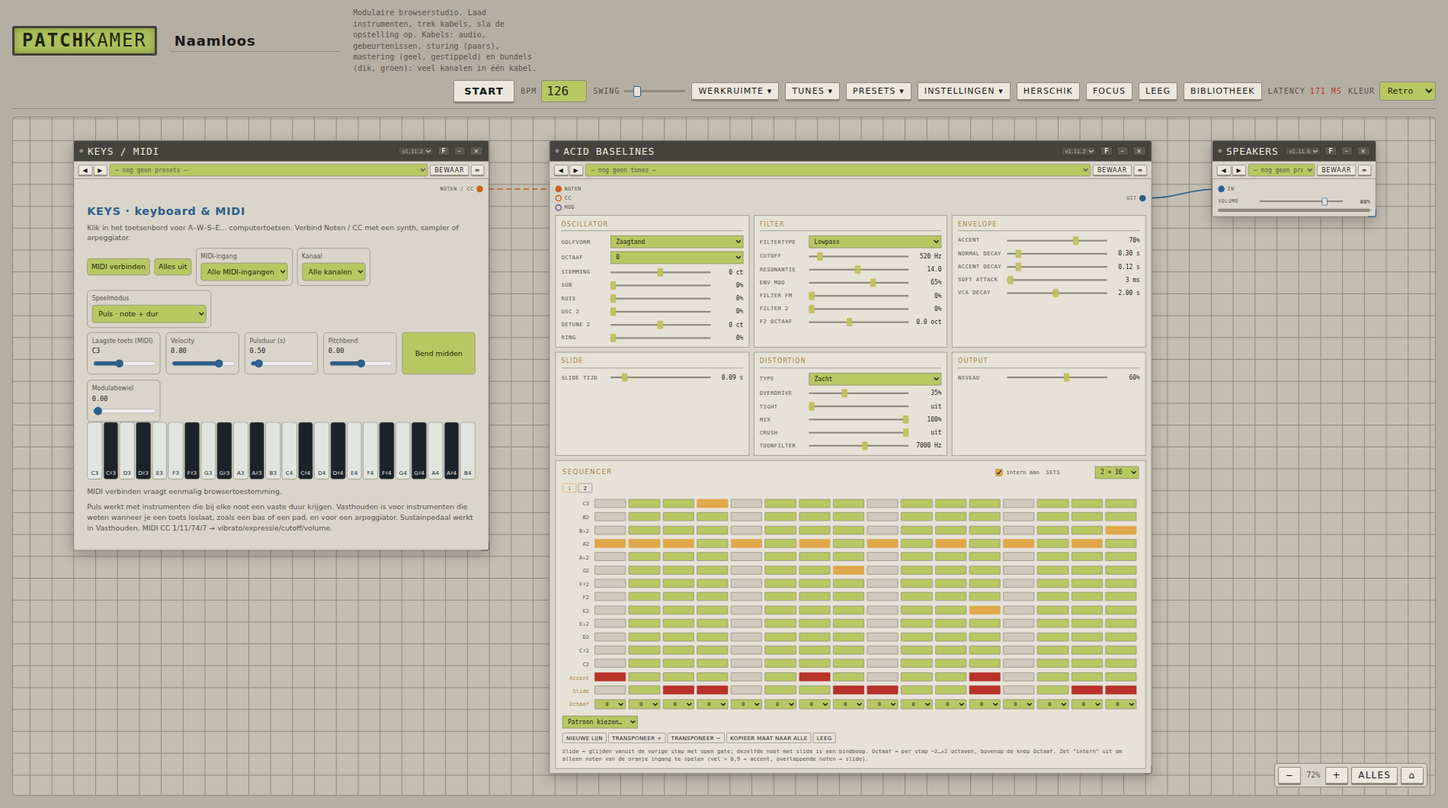
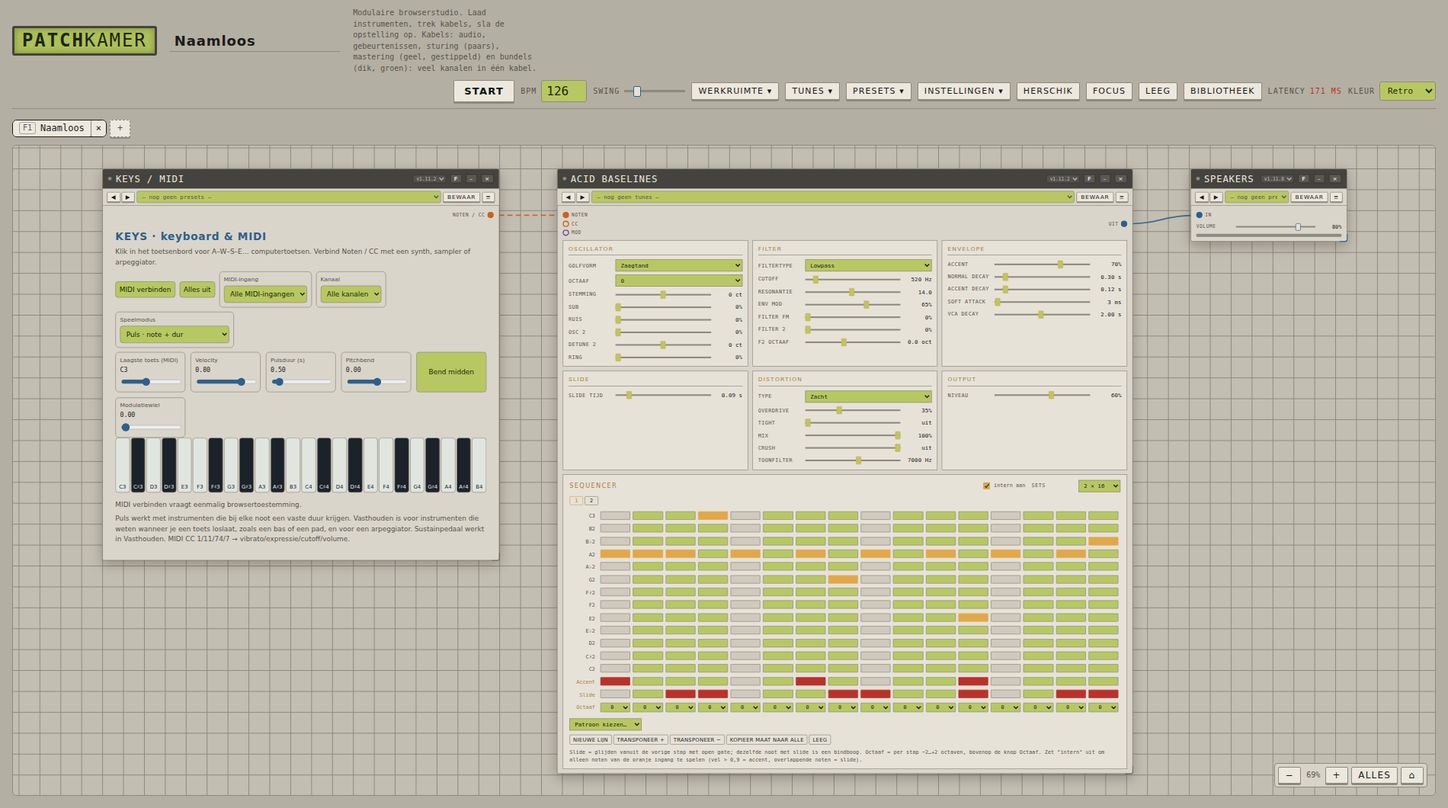
Host: meerdere werkruimtes met een tabbalk, F1 tot en met F10, toevoegen en sluiten; handleiding en schermafbeeldingen bijgewerkt

Changed region(s): [[0.0, 0.1245, 0.9937, 0.9651]]

diff --git a/patchkamer/patchkamer.html b/patchkamer/patchkamer.html
@@ -292,6 +292,15 @@ svg.cables g.cable.drop{opacity:1} svg.cables g.cable.drop path:not(.hit):not(.m
 .libwin{grid-template-columns:minmax(0,1fr)}
 .libwin .libbar{flex-wrap:wrap;row-gap:4px;min-width:0}
 .libwin .libbar .t{flex-shrink:0;overflow:visible}
+/* meerdere werkruimtes: tabbalk, F1 t/m F10 */
+.wstabs{display:flex;flex-wrap:wrap;gap:4px;align-items:center;padding:4px 0 0}
+.wstab{display:inline-flex;align-items:stretch;border:1px solid var(--line);background:var(--card);border-radius:6px;overflow:hidden;font-size:12px}
+.wstab.on{border-color:var(--sel);background:var(--card-2)}
+.wstab button{all:unset;cursor:pointer;color:var(--muted);padding:2px 8px;display:inline-flex;align-items:center;gap:6px;max-width:220px}
+.wstab.on button{color:var(--fg)} .wstab button:focus-visible{outline:2px solid var(--sel);outline-offset:-2px}
+.wstab .nm span{overflow:hidden;text-overflow:ellipsis;white-space:nowrap} .wstab kbd{font-family:var(--mono);font-size:10px;opacity:.7}
+.wstab .x{padding:2px 6px;border-left:1px solid var(--line)} .wstab .x:hover{color:var(--stop)}
+.wstabs .add{all:unset;cursor:pointer;color:var(--muted);border:1px dashed var(--line);border-radius:6px;padding:2px 9px;font-size:12px} .wstabs .add:hover{color:var(--fg)} .wstabs .add:focus-visible{outline:2px solid var(--sel)}
 .libwin .libbar .cnt{flex:1 1 auto;min-width:0;white-space:nowrap;overflow:hidden;text-overflow:ellipsis}
 .libwin .libbody{min-width:0}
 .libwin #lib,.libwin .cat,.libwin .devs{min-width:0}
@@ -488,6 +497,7 @@ body.nopbar .pbar{display:none}
     <div class="toast" id="devStatus" role="status" aria-live="polite"></div>
     <div class="floorempty" id="floorEmpty" hidden><div class="box">
       <h2 data-i18n="ui.lege_werkruimte">Lege werkruimte</h2>
+<nav class="wstabs" id="wsTabs" aria-label="Werkruimtes" data-i18n-aria="attr.werkruimtes_tabs"></nav>
       <p data-i18n-html="ui.patchkamer_heeft_zelf_geen_instrumenten">Patchkamer heeft zelf geen instrumenten. Laad een bibliotheek (een map met instrumenten, bijvoorbeeld <b data-i18n="ui.patchkamer_bibliotheek">patchkamer-bibliotheek</b>) of open een werkruimte die je eerder hebt bewaard.</p>
       <div class="wsrow"><button class="small" id="feLib" data-i18n="ui.bibliotheekmap_kiezen">Bibliotheekmap kiezen…</button><button class="small" id="feBundled" hidden data-i18n="ui.meegeleverde_bibliotheek_laden">Meegeleverde bibliotheek laden</button><button class="small" id="feOpen" data-i18n="ui.werkruimte_openen">Werkruimte openen…</button></div>
       <p id="feHint"></p>
@@ -804,6 +814,13 @@ const I18N={
    "attr.adres_tunes":"adres van de tunes",
    "m.alle_tunes_laden":"Alles laden",
    "m.alle_presets_laden":"Alles laden",
+   "attr.werkruimtes_tabs":"Werkruimtes",
+   "m.werkruimte_toevoegen":"Werkruimte toevoegen",
+   "m.werkruimte_sluiten":"Werkruimte sluiten",
+   "m.werkruimte_sluiten_vraag":"<b>{0} sluiten?</b><br>Wijzigingen die je niet als bestand hebt bewaard, verdwijnen.",
+   "m.sluiten_knop":"Sluiten",
+   "m.werkruimte_maximum":"Maximaal 10 werkruimtes (F1 t/m F10).",
+   "m.werkruimte_laatste":"Dit is de enige werkruimte. Met Leeg maak je hem leeg; open of bewaar een andere via Werkruimte.",
    "m.alles_laden_titel_tunes":"Laad alle tunebibliotheken van het adres uit Instellingen > Nieuwe werkruimte",
    "m.alles_laden_titel_presets":"Laad alle presetbibliotheken van het adres uit Instellingen > Nieuwe werkruimte",
    "m.werkruimte_laden_adres":"Geen geldig adres voor {0}: controleer Instellingen > Nieuwe werkruimte",
@@ -1328,6 +1345,13 @@ const I18N={
    "m.werkruimte_laden_adres":"No valid address for {0}: check Settings > New workspace",
    "m.kan_geen_mastering_ontvangen":" cannot receive mastering commands (configureMastering is missing)",
    "m.mastering_geen_regie":"Only a device with a mastering output can direct mastering.",
+   "attr.werkruimtes_tabs":"Workspaces",
+   "m.werkruimte_toevoegen":"Add workspace",
+   "m.werkruimte_sluiten":"Close workspace",
+   "m.werkruimte_sluiten_vraag":"<b>Close {0}?</b><br>Changes you have not saved as a file are lost.",
+   "m.sluiten_knop":"Close",
+   "m.werkruimte_maximum":"At most 10 workspaces (F1 to F10).",
+   "m.werkruimte_laatste":"This is the only workspace. Use Clear to empty it; open or save another one via Workspace.",
    "m.mastering_onbekende_actie":"Unknown mastering action: {0}",
    "m.mastering_geen_instellingen":"No settings were given.",
    "m.mastering_niets_terug":"There is no group change to undo.",
@@ -1812,7 +1836,7 @@ function validateDef(d){
   const need=k=>{ if(!d||d[k]===undefined) throw new Error(pkt('m.contract_veld_ontbreekt',k)); };
   ['id','name','version','kind','ports','create'].forEach(need);
   if(typeof d.create!=='function') throw new Error(pkt('m.contract_create_moet_een_functie'));
-  ['audioIn','audioOut','eventIn','eventOut','modIn','modOut','multiIn','multiOut','masteringIn','masteringOut'].forEach(k=>{ if(!Array.isArray(d.ports[k])) d.ports[k]=[]; });
+  ['audioIn','audioOut','eventIn','eventOut','modIn','modOut','multiIn','multiOut','masteringIn','masteringOut','multiEventIn','multiEventOut'].forEach(k=>{ if(!Array.isArray(d.ports[k])) d.ports[k]=[]; });
   if(!['instrument','effect','mixer','output','utility','modulator'].includes(d.kind)) throw new Error(pkt('m.contract_onbekende_kind')+d.kind+'"');
 }
 let _toastT=0; const status=(msg,err)=>{const el=$('devStatus'); el.textContent=msg; el.classList.toggle('err',!!err); el.classList.toggle('show',!!msg); clearTimeout(_toastT); if(msg) _toastT=setTimeout(()=>el.classList.remove('show'),err?7000:3500);};
@@ -1934,9 +1958,9 @@ function setSize(id,w,h){
   drawCables();
 }
 function showDim(r){ const d=r.el.querySelector('.bar .dim'); if(d) d.textContent=`${r.el.offsetWidth} × ${r.el.offsetHeight}`; }
-function pkApplyI18n(d){ const o=d&&d.i18n&&d.i18n[PK_LANG]; if(!o||typeof o!=='object') return d; if(typeof o.name==='string'&&o.name) d.name=o.name; if(o.ports&&typeof o.ports==='object'&&d.ports) for(const k of ['audioIn','audioOut','eventIn','eventOut','modIn','modOut','multiIn','multiOut','masteringIn','masteringOut']) if(Array.isArray(d.ports[k])) d.ports[k].forEach(p=>{ if(p&&typeof o.ports[p.id]==='string') p.name=o.ports[p.id]; }); return d; }
+function pkApplyI18n(d){ const o=d&&d.i18n&&d.i18n[PK_LANG]; if(!o||typeof o!=='object') return d; if(typeof o.name==='string'&&o.name) d.name=o.name; if(o.ports&&typeof o.ports==='object'&&d.ports) for(const k of ['audioIn','audioOut','eventIn','eventOut','modIn','modOut','multiIn','multiOut','masteringIn','masteringOut','multiEventIn','multiEventOut']) if(Array.isArray(d.ports[k])) d.ports[k].forEach(p=>{ if(p&&typeof o.ports[p.id]==='string') p.name=o.ports[p.id]; }); return d; }
 function normPorts(P,inst){ P=P||{}; const L=k=>(Array.isArray(P[k])?P[k]:[]).map(x=>({id:String(x.id),name:x.name!=null?String(x.name):String(x.id)}));
-  const r={audioIn:L('audioIn'),audioOut:L('audioOut'),eventIn:L('eventIn'),eventOut:L('eventOut'),modIn:L('modIn'),modOut:L('modOut'),multiIn:L('multiIn'),multiOut:L('multiOut'),masteringIn:L('masteringIn'),masteringOut:L('masteringOut')};
+  const r={audioIn:L('audioIn'),audioOut:L('audioOut'),eventIn:L('eventIn'),eventOut:L('eventOut'),modIn:L('modIn'),modOut:L('modOut'),multiIn:L('multiIn'),multiOut:L('multiOut'),masteringIn:L('masteringIn'),masteringOut:L('masteringOut'),multiEventIn:L('multiEventIn'),multiEventOut:L('multiEventOut')};
   if(inst&&typeof inst.params==='function'&&!r.modIn.some(x=>x.id==='mod')) r.modIn.push({id:'mod',name:'Mod'});   // contract v1.3
   return r; }
 const portList=(P,dir,kind)=>P[({audio:'audio',event:'event',mod:'mod',multi:'multi',mastering:'mastering'}[kind]||'mod')+(dir==='out'?'Out':'In')]||[];
@@ -2148,7 +2172,7 @@ function pkKnob(parent,label,mn,mx,st,val,fmt,onchange,opts){
   const kn=document.createElement('span'); kn.className='kn'; kn.tabIndex=0; kn.setAttribute('role','slider'); kn.setAttribute('aria-label',label); kn.__pkInput=i;
   kn.style.cssText='display:none;width:30px;height:30px;cursor:ns-resize;touch-action:none;justify-self:start;outline-offset:2px';
   kn.innerHTML='<svg viewBox="0 0 30 30" width="30" height="30" aria-hidden="true"><path class="tr" fill="none" stroke="var(--line,#3a404a)" stroke-width="3.2" stroke-linecap="round"/><path class="vl" fill="none" stroke="var(--audio,#4fd1c5)" stroke-width="3.2" stroke-linecap="round"/><circle cx="15" cy="15" r="8.2" fill="var(--panel-2,var(--panel,#1c2027))" stroke="var(--line,#3a404a)"/><line class="pt" x1="15" y1="15" stroke="var(--fg,#ddd)" stroke-width="2" stroke-linecap="round"/></svg>';
-  const log=opts.scale==='log'&&+mn>0&&+mx>+mn;
+  const log=opts.scale==='log'&&+mn>0&&+mx>+mn; if(log) i.dataset.pkScale='log';
   const toF=v=>{ v=+v; if(log) return Math.log(v/mn)/Math.log(mx/mn); return (v-mn)/((mx-mn)||1); };
   const fromF=f=>{ f=Math.max(0,Math.min(1,f)); let v=log?mn*Math.pow(mx/mn,f):mn+f*(mx-mn); if(+st>0) v=+mn+Math.round((v-mn)/st)*st; return Math.max(mn,Math.min(mx,+v.toFixed(10))); };
   const P=(a,r)=>{ const t=a*Math.PI/180; return [(15+r*Math.cos(t)).toFixed(2),(15+r*Math.sin(t)).toFixed(2)]; };
@@ -2550,8 +2574,8 @@ function loadPatch(p){ clearFloor(); Host.bpm=p.bpm||126; $('bpm').value=Host.bp
    ===================================================================== */
 const WS={name:pkt('m.naamloos')};
 const pkIsUntitled=n=>Object.values(I18N).some(d=>d['m.naamloos']===String(n||'').trim());
-function setName(n){ WS.name=(pkIsUntitled(n)?'':String(n||'').trim()).slice(0,60)||pkt('m.naamloos'); $('wsName').value=WS.name; $('wsNameEcho').textContent=WS.name; document.title=WS.name+' · Patchkamer'; }
-$('wsName').addEventListener('input',()=>{ WS.name=$('wsName').value.trim()||pkt('m.naamloos'); $('wsNameEcho').textContent=WS.name; document.title=WS.name+' · Patchkamer'; });
+function setName(n){ WS.name=(pkIsUntitled(n)?'':String(n||'').trim()).slice(0,60)||pkt('m.naamloos'); $('wsName').value=WS.name; if(typeof wslPaint==='function') wslPaint(); $('wsNameEcho').textContent=WS.name; document.title=WS.name+' · Patchkamer'; }
+$('wsName').addEventListener('input',()=>{ WS.name=$('wsName').value.trim()||pkt('m.naamloos'); if(typeof wslPaint==='function') wslPaint(); $('wsNameEcho').textContent=WS.name; document.title=WS.name+' · Patchkamer'; });
 $('wsName').addEventListener('change',()=>setName($('wsName').value));
 $('wsName').addEventListener('keydown',e=>{ if(e.key==='Enter'){ e.preventDefault(); $('wsName').blur(); } });
 
@@ -2815,7 +2839,7 @@ wsaPaint();
 $('prLoadAll').onclick=async()=>{ const k=TUMODE==='tune'?'tun':'pre', b=$('prLoadAll'); b.disabled=true;
   try{ const src=await wsaLoad(k,true); if(src){ const st=SRCSTATE.get(src.sid)||{}; status(`${srcLabel(src)}: ${st.msg||''}`,st.state==='err'); } }catch(e){ status(e.message,true); } finally{ b.disabled=false; prPaintPanel(); } };
 paintSources(); (async()=>{ for(const src of SOURCES){ try{ await loadSource(src,{interactive:false}); if(src.kind==='folder'){ const sg=await folderSig(src); if(sg) FOLDERSIG.set(src.sid,sg); } }catch(e){} }
-  if(Host.devices.size===0) await wsaAutoLoad(); })();
+  await wslInit(); })();
 paintPatches();
 
 /* =====================================================================
@@ -2869,6 +2893,42 @@ const presetKey=r=>{ try{ return JSON.stringify(presetStateOf(r)); }catch(e){ re
 function presetDirty(r){ return !!(r.preset&&r.presetSnap!=null&&presetKey(r)!==r.presetSnap); }
 const tuParts=r=>{ try{ const p=typeof r.inst.parts==='function'?r.inst.parts():null; return Array.isArray(p)?p.filter(x=>x&&typeof x.id==='string'):[]; }catch(e){ return []; } };
 
+// ---- meerdere werkruimtes: tabbalk, F1 t/m F10, toevoegen en sluiten ----
+// Elke werkruimte is een gewone werkruimte (zoals Bewaar/Open als bestand); wisselen bewaart de huidige, ruimt de vloer op en opent de gekozen. De afspeelstand stopt bij het wisselen.
+// De lijst wordt in IndexedDB bewaard (sleutel wslots) en weer geopend bij het starten.
+var PK_PENDING=false;   // na een taalwissel zet de host zelf de werkruimte terug
+var WSL={ready:false,busy:false,cur:0,slots:[]}; const WSL_MAX=10, wslUid=()=>'w'+Date.now().toString(36)+Math.random().toString(36).slice(2,5);
+function wslSnap(){ const sl=WSL.slots[WSL.cur]; if(!sl) return; sl.name=WS.name; sl.state=Host.devices.size?workspaceState(false):null; }
+async function wslSave(){ if((typeof PK_WIPING!=='undefined'&&PK_WIPING)||!WSL.ready||WSL.busy) return; try{ wslSnap(); await IDB.set('wslots',{cur:WSL.cur,slots:JSON.parse(JSON.stringify(WSL.slots))}); }catch(e){} }
+function wslPaint(){ const nav=$('wsTabs'); if(!nav||!WSL.slots.length) return; nav.innerHTML='';
+  WSL.slots.forEach((sl,i)=>{ const on=i===WSL.cur, name=on?WS.name:(sl.name||pkt('m.naamloos'));
+    const t=document.createElement('div'); t.className='wstab'+(on?' on':''); t.setAttribute('role','group');
+    const b=document.createElement('button'); b.className='nm'; b.setAttribute('aria-pressed',on?'true':'false'); b.innerHTML='<kbd>F'+(i+1)+'</kbd><span>'+esc(name)+'</span>'; b.title=name+' (F'+(i+1)+')'; b.onclick=()=>wslSwitch(i);
+    const x=document.createElement('button'); x.className='x'; x.textContent='×'; x.title=pkt('m.werkruimte_sluiten'); x.setAttribute('aria-label',pkt('m.werkruimte_sluiten')+': '+name); x.onclick=()=>wslClose(i);
+    t.append(b,x); nav.appendChild(t); });
+  if(WSL.slots.length<WSL_MAX){ const a=document.createElement('button'); a.className='add'; a.textContent='+'; a.title=pkt('m.werkruimte_toevoegen'); a.setAttribute('aria-label',pkt('m.werkruimte_toevoegen')); a.onclick=wslAdd; nav.appendChild(a); } }
+async function wslShow(i){   // de vloer leegmaken en werkruimte i openen (of een nieuwe, lege starten)
+  if(Host.running) stop(); clearFloor(); WS.song=null; WSL.cur=i; const t=WSL.slots[i];
+  if(t.state&&Array.isArray(t.state.devices)&&t.state.devices.length) await openWorkspace(t.state); else { setName(t.name||''); await wsaAutoLoad(); }
+  wslPaint(); }
+async function wslSwitch(i){ if(WSL.busy||i===WSL.cur||i<0||i>=WSL.slots.length) return; WSL.busy=true; try{ wslSnap(); await wslShow(i); }finally{ WSL.busy=false; } wslSave(); }
+async function wslAdd(){ if(WSL.busy) return; if(WSL.slots.length>=WSL_MAX){ status(pkt('m.werkruimte_maximum'),true); return; } WSL.busy=true;
+  try{ wslSnap(); WSL.slots.push({id:wslUid(),name:pkt('m.naamloos'),state:null}); await wslShow(WSL.slots.length-1); }finally{ WSL.busy=false; } wslSave(); }
+async function wslClose(i){ if(WSL.busy) return; if(WSL.slots.length<2){ status(pkt('m.werkruimte_laatste'),true); return; }
+  const sl=WSL.slots[i], name=i===WSL.cur?WS.name:(sl.name||pkt('m.naamloos')), full=i===WSL.cur?Host.devices.size>0:!!(sl.state&&sl.state.devices&&sl.state.devices.length);
+  if(full&&!(await askUser(pkt('m.werkruimte_sluiten_vraag',esc(name)),pkt('m.sluiten_knop'),pkt('m.annuleren')))) return;
+  WSL.busy=true; try{ if(i===WSL.cur){ const next=i>0?i-1:1; wslSnap(); const keep=WSL.slots[next]; WSL.slots.splice(i,1); WSL.cur=-1; await wslShow(WSL.slots.indexOf(keep)); }
+    else { wslSnap(); const keep=WSL.slots[WSL.cur]; WSL.slots.splice(i,1); WSL.cur=WSL.slots.indexOf(keep); wslPaint(); } }finally{ WSL.busy=false; } wslSave(); }
+async function wslInit(){ let saved=await IDB.get('wslots');
+  if(saved&&Array.isArray(saved.slots)&&saved.slots.length){ WSL.slots=saved.slots.filter(x=>x&&x.id).slice(0,WSL_MAX).map(x=>({id:x.id,name:String(x.name||'').slice(0,60),state:x.state||null})); WSL.cur=Math.min(Math.max(0,saved.cur|0),WSL.slots.length-1); }
+  if(!WSL.slots.length){ WSL.slots=[{id:wslUid(),name:pkt('m.naamloos'),state:null}]; WSL.cur=0; }
+  const t=WSL.slots[WSL.cur];
+  if(!PK_PENDING&&Host.devices.size===0&&t.state&&Array.isArray(t.state.devices)&&t.state.devices.length) await openWorkspace(t.state);
+  else if(Host.devices.size===0) await wsaAutoLoad();
+  WSL.ready=true; wslPaint(); }
+document.addEventListener('keydown',e=>{ if(e.altKey||e.ctrlKey||e.metaKey||e.shiftKey||!WSL.ready) return; const m=/^F(\d{1,2})$/.exec(e.key); if(!m) return; const n=+m[1]; if(n<1||n>WSL.slots.length) return;
+  e.preventDefault(); if(document.querySelector('.pkmodal')) return; wslSwitch(n-1); });
+setInterval(wslSave,15000); document.addEventListener('visibilitychange',()=>{ if(document.visibilityState==='hidden') wslSave(); }); window.addEventListener('pagehide',()=>{ wslSave(); });
 // ---- bestanden: tunepack (nieuw) en presetbestand (oud) → bibliotheken per apparaat ----
 function tuNodeIn(x,depth=0){ if(!x||typeof x!=='object'||depth>8) return null;
   if(typeof x.folder==='string'||x.type==='folder') return {type:'folder',fid:prUid('f'),name:String(x.folder||x.name||pkt('m.map')).slice(0,60),children:(Array.isArray(x.items||x.children)?(x.items||x.children):[]).map(y=>tuNodeIn(y,depth+1)).filter(Boolean)};
@@ -3110,7 +3170,7 @@ async function songExportDialog(){ const cur=WS.song||{}; const mine=!cur.author
   if(await p!==1||!v) { status(pkt('m.song_niet_ge_xporteerd')); return; }
   PR.prefs.author=v.author; PR.prefs.license=v.license; prSavePrefs();
   WS.song={...v,...(based?{basedOn:based}:{})};
-  const song={format:SONGFMT,formatVersion:1,title:v.title,author:v.author,license:v.license,description:v.description,...(based?{basedOn:based}:{}),created:new Date().toISOString(),patchkamer:'1.12',workspace:workspaceState(true)};
+  const song={format:SONGFMT,formatVersion:1,title:v.title,author:v.author,license:v.license,description:v.description,...(based?{basedOn:based}:{}),created:new Date().toISOString(),patchkamer:'1.13',workspace:workspaceState(true)};
   const fn=(String(v.title).replace(/[\\/:*?"<>|\u0000-\u001f]+/g,' ').replace(/\s+/g,' ').trim()||pkt('m.song_2'))+'.patchkamer-song.json';
   const r=await saveFileData(fn,JSON.stringify(song,null,1)); status(r==='saved'?pkt('m.song_ge_xporteerd_apparaten_met',v.title,licName(v.license),song.workspace.devices.length):pkt('m.exporteren_geannuleerd')); }
 function songShow(s){ songModal(pkt('m.song',esc(s.title||pkt('m.naamloos')),esc(licLine({author:s.author,license:s.license})),s.description?'<br>'+esc(s.description):'',s.basedOn?pkt('m.gebaseerd_op')+esc(s.basedOn.title||'')+'”'+(s.basedOn.author?' van '+esc(s.basedOn.author):'')+' ('+esc(licName(s.basedOn.license))+')':'',s.license===LIC_ARR?pkt('m.alle_rechten_voorbehouden_je_mag'):s.license==='CC-BY-4.0'?pkt('m.cc_by_4_0_je'):s.license?pkt('m.lees_de_licentie')+esc(s.license)+pkt('m.voor_wat_je_ermee_mag'):pkt('m.er_is_geen_licentie_opgegeven')),['OK']); }
@@ -3170,7 +3230,7 @@ window.addEventListener('resize',drawCables); floorwrap.addEventListener('scroll
   qs.onchange=()=>{ const p=PK_QUALITY[qs.value]; if(!p){ paintQ(); return; } Object.assign(P,p); store('patchkamer.latency',P.latency); store('patchkamer.sampleRate',P.sampleRate); store('patchkamer.oversample',P.oversample);
     lat.value=P.latency; sr.value=P.sampleRate; os.value=P.oversample; paintQ(); reloadFlow(); };
   // na herladen: werkruimte terugzetten
-  let pend=null; try{ pend=sessionStorage.getItem('patchkamer.reloadWs'); sessionStorage.removeItem('patchkamer.reloadWs'); }catch(e){}
+  let pend=null; try{ pend=sessionStorage.getItem('patchkamer.reloadWs'); sessionStorage.removeItem('patchkamer.reloadWs'); }catch(e){} PK_PENDING=!!pend;
   if(pend){ setTimeout(async()=>{ try{ await openWorkspace(JSON.parse(pend)); status(pkt('m.werkruimte_teruggezet_na_wijziging')); }catch(e){ status(pkt('m.terugzetten_mislukt')+e.message,true); } },300); }
   // contract: links naar GitHub; eigen taal eerst
   (function(){ const a=$('ctrA'), b=$('ctrB'); if(PK_LANG==='en'){ const h=a.href, x=a.textContent; a.href=b.href; a.textContent=b.textContent; b.href=h; b.textContent=x; } })();

diff --git a/docs/tools/make-screenshots.py b/docs/tools/make-screenshots.py
@@ -60,7 +60,7 @@ def shots(browser, lang, OUT, LIB, BASE):
         pg = browser.new_context(viewport={'width': w, 'height': h}, locale=LOCALE[lang]).new_page(); pg.errs = []
         pg.on('pageerror', lambda e: pg.errs.append(str(e)))
         pg.route('**/*', lambda r: r.continue_() if r.request.url.startswith('http://localhost') else r.abort())
-        init = ("delete window.showDirectoryPicker;" if nopicker else "") + "localStorage.setItem('patchkamerLib',JSON.stringify({x:16,y:16,w:340,h:%d,fs:14,min:false,shown:true,closed:[]}));" % libh
+        init = "localStorage.setItem('patchkamerWsAuto',JSON.stringify({dev:{on:false},pre:{on:false},tun:{on:false}}));" + ("delete window.showDirectoryPicker;" if nopicker else "") + "localStorage.setItem('patchkamerLib',JSON.stringify({x:16,y:16,w:340,h:%d,fs:14,min:false,shown:true,closed:[]}));" % libh
         if skin: init += "localStorage.setItem('patchkamer.skin','%s');" % skin
         pg.add_init_script(init); pg.goto(BASE + '/patchkamer/patchkamer.html')
         pg.add_style_tag(content='*{user-select:none!important}'); pg.wait_for_timeout(700); return pg
@@ -94,6 +94,11 @@ def shots(browser, lang, OUT, LIB, BASE):
     pg.click('#wsBtn'); pg.wait_for_timeout(400); pg.locator('#wsPanel').screenshot(path=OUT + '/06-workspace.png'); pg.click('#wsPanel .close'); pg.wait_for_timeout(300)
     pg.click('#setBtn'); pg.wait_for_timeout(400); pg.locator('#setPanel').screenshot(path=OUT + '/07-settings.png'); pg.click('#setClose'); pg.wait_for_timeout(300)
     import_tunes(pg); pg.locator('#prPanel').screenshot(path=OUT + '/09-tunes-panel.png'); done(pg)
+    pg = newpage(nopicker=True); build_patch(pg)   # meerdere werkruimtes: de tabbalk met drie werkruimtes
+    pg.fill('#wsName', 'Acid jam'); pg.press('#wsName', 'Enter'); pg.click('#wsTabs .add'); pg.wait_for_timeout(1200)
+    pg.fill('#wsName', 'Ideas'); pg.press('#wsName', 'Enter'); pg.click('#wsTabs .add'); pg.wait_for_timeout(1200)
+    pg.fill('#wsName', 'Mix check'); pg.press('#wsName', 'Enter'); pg.keyboard.press('F1'); pg.wait_for_timeout(2500)
+    pg.locator('#wsTabs').screenshot(path=OUT + '/11-workspaces.png'); done(pg)
     pg = newpage(nopicker=True); build_patch(pg)
     for i in (0, 1): pg.locator('.card').nth(i).locator('button', has_text='F').first.click(); pg.wait_for_timeout(200)
     pg.click('#focusBtn'); pg.wait_for_timeout(800); pg.locator('#focusview button, .focusview button').nth(1).click(); pg.wait_for_timeout(1000)

diff --git a/docs/USER-MANUAL_NL.md b/docs/USER-MANUAL_NL.md
@@ -66,6 +66,7 @@ Patchkamer volgt de taal van je browser: Nederlands of Engels. Je wijzigt dat on
 | **Latency** | De vertraging tussen het berekenen van een geluid en het horen ervan, zoals je browser die meldt. |
 | **Kleur** | Donker, licht of retro (onderdeel 10). |
 | De naam bovenaan | De naam van je werkruimte. Klik erop om hem te wijzigen. |
+| Tabs **F1**, **F2**… | De balk onder de bovenbalk bevat je werkruimtes. Klik op een tab of druk op **F1** t/m **F10** om te wisselen; **+** voegt er een toe en **×** sluit er een (hoofdstuk 8). |
 
 Het grote vlak is de **vloer**. Daar staan je apparaten. Het venster links is de **bibliotheek**, de lijst met apparaten die je kunt plaatsen. Rechtsonder zie je de zoomknoppen.
 
@@ -82,6 +83,8 @@ Patchkamer heeft zelf geen apparaten. Een **bibliotheek** is een verzameling app
 ![De bibliotheek met apparaten, klaar om te plaatsen](images/nl/02-library.png)
 
 Een apparaat is een bestand dat eindigt op `.patchkamer-device.js`. Bronnen worden onthouden, dus de volgende keer laden ze vanzelf.
+
+**Het kan ook vanzelf.** Onder **Instellingen → Nieuwe werkruimte** kan Patchkamer de apparatenbibliotheek, de presets en de tunes van GitHub laden zodra je met een lege werkruimte begint. De drie adressen kun je daar wijzigen (hoofdstuk 10). Elk adres wordt een eigen bron in de lijst, met een knop **Scannen**.
 
 **Een map kiezen.** Op `localhost` of via https onthouden Chrome en Edge de map en ziet Patchkamer nieuwe apparaten als je terugkomt in het venster. In andere gevallen maakt de browser een eenmalige momentopname van de map en zegt de vraag iets als "7 bestanden uploaden". Er wordt niets geüpload, en het getal telt elk bestand in de map, niet alleen apparaten. Patchkamer leest alleen de bestanden die eindigen op `.patchkamer-device.js` en toont daarna het echte aantal apparaten. Bij een momentopname vraagt **Scannen** je de map opnieuw te kiezen om nieuwe bestanden te zien.
 
@@ -137,6 +140,8 @@ Op elke kaart zie je een balk met ◀ ▶-knoppen en een lijst. Kies een tune of
 
 ![Tunebibliotheken](images/nl/09-tunes-panel.png)
 
+De knop **Alles laden** bovenaan het Tunes- en Presets-paneel laadt alle tunepacks, of alle presetpacks, van het adres dat je instelt onder **Instellingen → Nieuwe werkruimte** (standaard de mappen `tunes` en `presets` van deze repository op GitHub). Alles onder die map wordt ingelezen.
+
 De menu's **Tunes** en **Presets** beheren je bibliotheken: maak een nieuwe, zet tunes in mappen, importeer een pakket (`.patchkamer-tunes.json` of `.patchkamer-presets.json`) en exporteer er een om te delen. Pakketten in een bibliotheek die je van GitHub of uit een map laadt, verschijnen vanzelf. De packs die bij deze repository horen, staan in de [handleiding tunes](tunes/USER-MANUAL_NL.md) en de [handleiding presets](presets/USER-MANUAL_NL.md).
 
 Het hele verhaal, met de lijst van de meegeleverde packs en hoe je een eigen pack maakt, staat in de [handleiding presets](presets/USER-MANUAL_NL.md) en de [handleiding tunes](tunes/USER-MANUAL_NL.md).
@@ -153,6 +158,10 @@ Je **werkruimte** is de hele opstelling: apparaten met hun instellingen en patro
 - **Exporteer als song…** maakt een deelbaar bestand (`.patchkamer-song.json`) met alle apparaatcode, een titel, de maker en een licentie. Iemand anders kan het openen zonder bibliotheek.
 - **Nieuwe lege werkruimte** begint opnieuw.
 
+**Meer dan één werkruimte.** De tabbalk onder de bovenbalk bevat maximaal tien werkruimtes. Klik op een tab, of druk op **F1** t/m **F10**, om te wisselen. **+** voegt een nieuwe lege werkruimte toe; **×** sluit er een (Patchkamer vraagt eerst als er apparaten in staan, en de laatste kun je niet sluiten: gebruik **Leeg**). Elke werkruimte heeft eigen apparaten, kabels, tempo en naam, en alles in dit hoofdstuk werkt op de werkruimte waarin je zit. Bij het wisselen stopt de klok en start je hem zelf weer. Een nieuwe werkruimte laadt wat je koos onder **Instellingen → Nieuwe werkruimte**. Patchkamer bewaart je werkruimtes in je browser en opent ze de volgende keer weer.
+
+![De tabbalk met drie werkruimtes](images/nl/11-workspaces.png)
+
 ## 9. Je weg vinden op de vloer
 
 - **Verplaatsen:** sleep de vloer om te schuiven. **Ctrl + scroll** zoomt tussen 10% en 250%. Met de knoppen rechtsonder zoom je uit, zoom je in, zie je alles (**Alles**) en ga je terug naar het begin (⌂).
@@ -168,6 +177,7 @@ Je **werkruimte** is de hele opstelling: apparaten met hun instellingen en patro
 
 - **Taal:** automatisch (je browser), Nederlands of English. Patchkamer laadt opnieuw en behoudt je werkruimte.
 - **Audio:** kies kwaliteit **Laag**, **Normaal** of **Hoog**, of stel **sample rate**, **latency** en **oversampling** zelf in. Hogere kwaliteit vraagt meer van je computer. Een wijziging laadt Patchkamer opnieuw en behoudt je werkruimte. Hoor je geknetter, kies dan een grotere latencybuffer (*Gebalanceerd* of *Stabiel*).
+- **Nieuwe werkruimte:** vink aan wat Patchkamer laadt als je met een lege werkruimte begint: **Apparatenbibliotheek laden**, **Presets laden**, **Tunes laden**. Onder elk vinkje staat het adres, standaard de mappen `devices`, `presets` en `tunes` van `github.com/unboxednl/patchkamer`. Alles onder de map wordt ingelezen. **Standaardadressen herstellen** zet de drie terug. De knop **Alles laden** in het Tunes- en Presets-paneel gebruikt dezelfde adressen. Alleen GitHub-adressen werken hier; een webadres of lokale map voeg je als bron toe in de bibliotheek.
 - **Weergave:** de stijl van de kabels, hun dekking, de schaal van de hele interface, schuif of draaiknop voor de knoppen van de host, en de tekstgrootte van menu's en bibliotheek.
 - **Kleur** (rechtsboven): donker, licht of retro.
 
@@ -182,6 +192,7 @@ Je **werkruimte** is de hele opstelling: apparaten met hun instellingen en patro
 | Toetsen | Wat het doet |
 |---|---|
 | **Spatie** | Start of stop |
+| **F1** t/m **F10** | Wisselen naar werkruimte 1 t/m 10 (tabbalk) |
 | **Alt+F** | Focusweergave openen of sluiten |
 | **Alt+B** | Bibliotheek tonen of verbergen |
 | **+** / **−** / **0** | Inzoomen / uitzoomen / zoom herstellen |

diff --git a/docs/USER-MANUAL_EN.md b/docs/USER-MANUAL_EN.md
@@ -66,6 +66,7 @@ Patchkamer follows the language of your browser: Dutch or English. You can chang
 | **Latency** | The delay between a sound being calculated and you hearing it, as reported by your browser. |
 | **Color** | Dark, light or retro (section 10). |
 | The name at the top | The name of your workspace. Click it to rename. |
+| **F1**, **F2**… tabs | The bar under the top bar holds your workspaces. Click a tab or press **F1** to **F10** to switch; **+** adds one and **×** closes one (section 8). |
 
 The big area is the **floor**. Your devices live there. The window on the left is the **library**, the list of devices you can place. Bottom right you find the zoom controls.
 
@@ -82,6 +83,8 @@ Patchkamer comes without devices of its own. A **library** is a collection of de
 ![The library with devices, ready to place](images/en/02-library.png)
 
 A device is a file that ends in `.patchkamer-device.js`. Sources are remembered, so next time they load by themselves.
+
+**It can also happen by itself.** Under **Settings → New workspace** Patchkamer can load the device library, the presets and the tunes from GitHub whenever you start with an empty workspace. You can change the three addresses there (section 10). Each one becomes a source of its own in the list, with a **Scan** button.
 
 **Choosing a folder.** On `localhost` or over https, Chrome and Edge remember the folder and Patchkamer sees new devices when you come back to the window. In other cases the browser takes a one-time snapshot of the folder and its prompt says something like "Upload 7 files". Nothing is uploaded, and the number counts every file in the folder, not only devices. Patchkamer reads only the files that end in `.patchkamer-device.js` and then shows the real number of devices. With a snapshot, **Scan** asks you to pick the folder again to see new files.
 
@@ -137,6 +140,8 @@ On every card you see a bar with ◀ ▶ buttons and a list. Pick a tune or pres
 
 ![Tune libraries](images/en/09-tunes-panel.png)
 
+The **Load all** button at the top of the Tunes and Presets panel loads every tune pack, or every preset pack, from the address you set under **Settings → New workspace** (by default the `tunes` and `presets` folders of this repository on GitHub). Everything below that folder is read.
+
 The **Tunes** and **Presets** menus manage your libraries: create a new one, put tunes in folders, import a pack (`.patchkamer-tunes.json` or `.patchkamer-presets.json`) and export one to share. Packs in a library you load from GitHub or a folder appear automatically. The packs that come with this repository are listed in the [tunes manual](tunes/USER-MANUAL_EN.md) and the [presets manual](presets/USER-MANUAL_EN.md).
 
 For the whole story, with the list of included packs and how to make your own, see the [presets manual](presets/USER-MANUAL_EN.md) and the [tunes manual](tunes/USER-MANUAL_EN.md).
@@ -153,6 +158,10 @@ Your **workspace** is the whole setup: devices and their settings and patterns, 
 - **Export as song…** makes a shareable file (`.patchkamer-song.json`) that holds all device code, a title, the author and a license. Someone else can open it without any library.
 - **New empty workspace** starts again.
 
+**More than one workspace.** The tab bar under the top bar holds up to ten workspaces. Click a tab, or press **F1** to **F10**, to switch. **+** adds a new empty workspace; **×** closes one (Patchkamer asks first if it holds devices, and the last one cannot be closed: use **Clear**). Every workspace has its own devices, cables, tempo and name, and everything in this section works on the workspace you are in. When you switch, the clock stops and you start it again yourself. A new workspace loads what you chose under **Settings → New workspace**. Patchkamer keeps your workspaces in your browser and opens them again the next time.
+
+![The tab bar with three workspaces](images/en/11-workspaces.png)
+
 ## 9. Find your way around the floor
 
 - **Move around:** drag the floor to pan. **Ctrl + scroll** zooms between 10% and 250%. The buttons bottom right zoom out, zoom in, fit everything (**All**) and go back to the start (⌂).
@@ -168,6 +177,7 @@ Your **workspace** is the whole setup: devices and their settings and patterns, 
 
 - **Language:** automatic (your browser), Nederlands or English. Patchkamer reloads and keeps your workspace.
 - **Audio:** pick **Low**, **Normal** or **High** quality, or set **sample rate**, **latency** and **oversampling** yourself. Higher quality asks more of your computer. A change reloads Patchkamer and keeps your workspace. If you hear crackles, choose a larger latency buffer (*Balanced* or *Stable*).
+- **New workspace:** tick what Patchkamer loads when you start with an empty workspace: **Load the device library**, **Load presets**, **Load tunes**. Under each tick is the address, by default the `devices`, `presets` and `tunes` folders of `github.com/unboxednl/patchkamer`. Everything below the folder is read. **Restore default addresses** puts the three back. The **Load all** button in the Tunes and Presets panel uses the same addresses. Only GitHub addresses work here; a web address or local folder is added as a source in the library instead.
 - **Display:** the style of the cables, their opacity, the scale of the whole interface, slider or rotary knobs for the host controls, and the text size of menus and library.
 - **Color** (top right): dark, light or retro.
 
@@ -182,6 +192,7 @@ Your **workspace** is the whole setup: devices and their settings and patterns, 
 | Keys | What it does |
 |---|---|
 | **Space** | Start or stop |
+| **F1** to **F10** | Switch to workspace 1 to 10 (tab bar) |
 | **Alt+F** | Open or close the focus view |
 | **Alt+B** | Show or hide the library |
 | **+** / **−** / **0** | Zoom in / zoom out / reset zoom |
